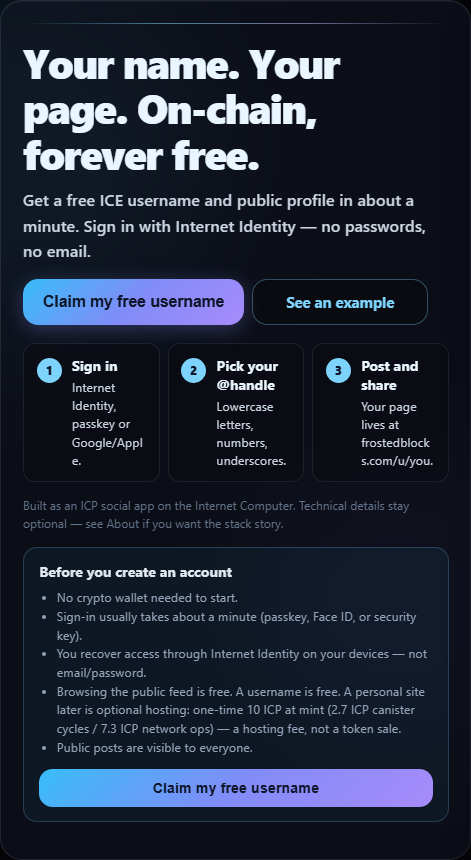
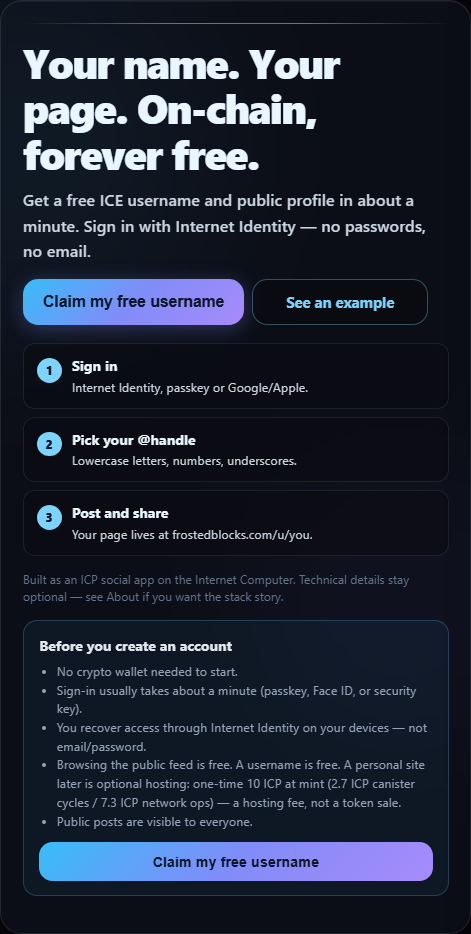
fix(assets): PR5 stack steps below 1200px, break-word wrap
Keep the 3-column step strip only at min-width 1200px so 960–1199
use stacked rows. Use overflowWrap break-word; keep CTA labels on one
line with nowrap + flex-wrap. Evidence crops at 1280/1200/1199/1024/960/390.

diff --git a/assets/src/PublicLanding.jsx b/assets/src/PublicLanding.jsx
@@ -584,6 +584,7 @@ export default function PublicLanding({ onJoin, onLogin, authClient = null, isLo
           }
           .ice-public-cta-row {
             flex-direction: row !important;
+            flex-wrap: wrap !important;
             align-items: stretch !important;
           }
           .ice-public-cta-row .ice-btn-primary,
@@ -591,17 +592,22 @@ export default function PublicLanding({ onJoin, onLogin, authClient = null, isLo
             width: auto !important;
             flex: 0 1 auto !important;
             min-width: 11rem;
+            white-space: nowrap !important;
           }
+        }
+        @media (min-width: 1200px) {
           .ice-public-steps {
             grid-template-columns: repeat(3, minmax(0, 1fr)) !important;
+          }
+        }
+        @media (max-width: 1199px) {
+          .ice-public-steps {
+            grid-template-columns: 1fr !important;
           }
         }
         @media (max-width: 959px) {
           .ice-public-cta-row .ice-btn-primary {
             width: 100% !important;
-          }
-          .ice-public-steps {
-            grid-template-columns: 1fr !important;
           }
         }
         .ice-public-header a:hover { color: #e2e8f0 !important; }
@@ -609,6 +615,7 @@ export default function PublicLanding({ onJoin, onLogin, authClient = null, isLo
         .ice-public-cta-row a {
           min-height: 44px;
           box-sizing: border-box;
+          white-space: nowrap;
         }
       `}</style>
     </div>
@@ -773,6 +780,7 @@ const styles = {
   ctaRowTop: {
     display: "flex",
     flexDirection: "column",
+    flexWrap: "wrap",
     gap: "0.5rem",
     marginBottom: "1.15rem",
     maxWidth: "720px",
@@ -792,6 +800,7 @@ const styles = {
     cursor: "pointer",
     textDecoration: "none",
     boxSizing: "border-box",
+    whiteSpace: "nowrap",
   },
   primaryBtnCompact: {
     display: "inline-flex",
@@ -823,6 +832,7 @@ const styles = {
     cursor: "pointer",
     textDecoration: "none",
     boxSizing: "border-box",
+    whiteSpace: "nowrap",
   },
   stepsRow: {
     listStyle: "none",
@@ -871,7 +881,7 @@ const styles = {
     lineHeight: 1.45,
     color: "#cbd5e1",
     minWidth: 0,
-    overflowWrap: "anywhere",
+    overflowWrap: "break-word",
   },
   featureRow: {
     display: "grid",

diff --git a/docs/pr5-hero/README.md b/docs/pr5-hero/README.md
@@ -1,6 +1,6 @@
 # PR5 evidence — landing hero + first-run copy
 
-**Bundle:** `index-BxtUUTiB.js` (vite build, DFX_NETWORK=ic)
+**Bundle:** `index-C6sDN9oP.js` (vite build, DFX_NETWORK=ic)
 
 ## Screenshots
 
@@ -8,34 +8,30 @@
 |------|------|
 | Before homepage 1280 (live) | `before-home-1280.png` |
 | Before homepage 390 (live) | `before-home-390.png` |
-| After homepage 1280 (local) | `after-home-1280.png` |
-| After homepage 390 (local) | `after-home-390.png` |
-| After homepage 960 (local) | `after-home-960.png` |
-| After homepage 1024 (overflow check) | `after-home-1024.png` |
+| After homepage 1280 | `after-home-1280.png` |
+| After homepage 1200 | `after-home-1200.png` |
+| After homepage 1199 | `after-home-1199.png` |
+| After homepage 1024 | `after-home-1024.png` |
+| After homepage 960 | `after-home-960.png` |
+| After homepage 390 | `after-home-390.png` |
 | See an example → `/u/wood` | `after-example-u-wood-1280.png` |
 | Primary CTA → II window | `after-ii-window-open.png` |
 | Welcome notice | `after-welcome-fixture.png` |
 | Empty state | `after-empty-fixture.png` |
 | Composer placeholder | `after-composer-fixture.png` |
 
-Welcome / empty / composer fixtures use production `theme.css` classes with the shipped copy (no real II sign-in for those three).
+## Breakpoint fix (Design NO-GO #2)
 
-## Verified
+- Steps: 1-column below 1200px; 3-column only at `min-width: 1200px`.
+- `stepText` `overflowWrap: break-word` (was anywhere).
+- Hero CTAs: `whiteSpace: nowrap` + row `flex-wrap` so labels stay one line and stack if needed.
+- Verified at 1280 / 1200 / 1199 / 1024 / 960 / 390: no mid-word breaks, no overflow, CTA labels one line.
 
-- Homepage `<title>`: `ICE Network: free on-chain username and page`
-- Homepage meta description: Claim a free @username… (~1 minute)
-- `/u/wood` after “See an example”: path `/u/wood`, title `Wood (@wood) · ICE Network`, `data-ice-u` robots `noindex`
-- Primary “Claim my free username” opens II authorize window (closed without completing sign-in)
-- Built JS contains `Claim my free username` and `forever free`
-- `airdrop` / `invest`: 0 hits in bundle
-- `token` hits are pre-existing only (Candid `token` field, “not a token sale” disclaimer, Connect challenge token) — none added by PR5 source diff
+## Overflow fix (Design NO-GO #1)
 
-## Out of scope
+- `stepTitle` / `stepText`: `minWidth: 0`; step grid column `minmax(0,1fr)`.
+- Header CTA: Sign in; auth-note CTA: Claim my free username.
+
+## STOP
 
 No merge / assets deploy until Design GO.
-
-## Overflow fix (Design NO-GO)
-
-- `stepTitle`/`stepText`: `minWidth: 0`; `stepText`: `overflowWrap: "anywhere"`; step grid column `minmax(0,1fr)`.
-- Verified no step/card/page overflow at 1280, 1024, 960, 390.
-- Header CTA label: Sign in; auth-note CTA: Claim my free username.
